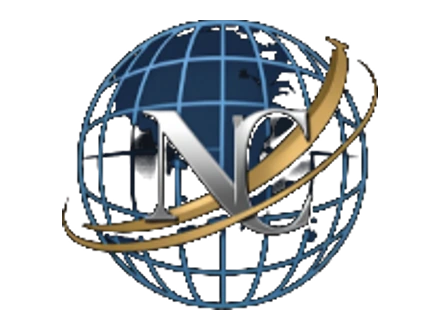
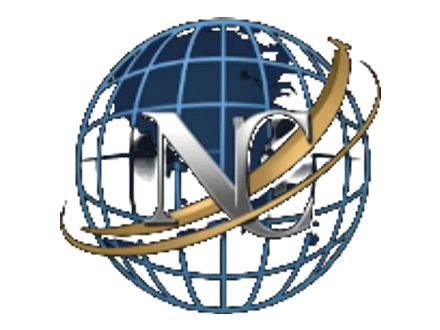
fix(assets): stop clipping the association seal
The association lockup has no detached wordmark - its seal contains the
entity name and the motto ribbon, and the artwork runs to y=311. The
previous crop stopped at y=247 (where the glyph components begin) and
sliced off the lower third of the seal.

Connected-component analysis shows the three dominant components span
x62..337 y111..308, so the whole bbox is the emblem. Management and
consultancy were already correct (their wordmarks are detached glyphs
below the mark).

- association emblem bbox corrected to 276x201
- consultancy emblem bbox nudged to include the top row (y93)
- fill raised to 0.90 so the marks sit closer to the frame edge without
  touching it (all margins now >= 16px)
- cache-bust bumped to v=8

diff --git a/nagasaribu-website-v2/index.html b/nagasaribu-website-v2/index.html
@@ -171,9 +171,9 @@ footer{background:#040a15;color:#a9bccf;padding:56px 0 30px;font-size:13.5px}foo
 <div class="logo-rule"></div>
 </div>
 <div class="logo-list">
-<a class="logo-item" href="management"><img src="assets/nagasaribu-management-icon-128.webp?v=7" width="46" height="46" alt="" aria-hidden="true"><span><b>MANAGEMENT</b><span>Contracting • Supply • Workforce</span></span></a>
-<a class="logo-item" href="consultancy"><img src="assets/nagasaribu-consultancy-icon-128.webp?v=7" width="46" height="46" alt="" aria-hidden="true"><span><b>CONSULTANCY</b><span>Marketing | Consulting | Growth</span></span></a>
-<a class="logo-item" href="association"><img src="assets/nagasaribu-association-icon-128.webp?v=7" width="46" height="46" alt="" aria-hidden="true"><span><b>ASSOCIATION</b><span>Networking • Partnership</span></span></a>
+<a class="logo-item" href="management"><img src="assets/nagasaribu-management-icon-128.webp?v=8" width="46" height="46" alt="" aria-hidden="true"><span><b>MANAGEMENT</b><span>Contracting • Supply • Workforce</span></span></a>
+<a class="logo-item" href="consultancy"><img src="assets/nagasaribu-consultancy-icon-128.webp?v=8" width="46" height="46" alt="" aria-hidden="true"><span><b>CONSULTANCY</b><span>Marketing | Consulting | Growth</span></span></a>
+<a class="logo-item" href="association"><img src="assets/nagasaribu-association-icon-128.webp?v=8" width="46" height="46" alt="" aria-hidden="true"><span><b>ASSOCIATION</b><span>Networking • Partnership</span></span></a>
 </div>
 </div>
 </div>
@@ -213,14 +213,14 @@ footer{background:#040a15;color:#a9bccf;padding:56px 0 30px;font-size:13.5px}foo
 <section id="businesses" aria-labelledby="businesses-title" style="background:#fff;border-top:1px solid var(--line);border-bottom:1px solid var(--line)"><div class="wrap">
 <div class="eyebrow">OUR BUSINESSES</div><h2 class="title serif reveal" id="businesses-title">Three Entities. One Ecosystem.</h2>
 <div class="grid3" style="margin-top:24px">
-<div class="card reveal"><div class="emblem"><img src="assets/nagasaribu-management-icon-440.webp?v=7" width="220" height="165" alt="NAGASARIBU MANAGEMENT emblem" loading="lazy" decoding="async"></div><div class="pill">CONTRACTING • SUPPLY • WORKFORCE</div><h3>NAGASARIBU MANAGEMENT</h3><p>Construction, supply, workforce & technical solutions.</p><div class="svc" style="grid-template-columns:1fr 1fr">
+<div class="card reveal"><div class="emblem"><img src="assets/nagasaribu-management-icon-440.webp?v=8" width="220" height="165" alt="NAGASARIBU MANAGEMENT emblem" loading="lazy" decoding="async"></div><div class="pill">CONTRACTING • SUPPLY • WORKFORCE</div><h3>NAGASARIBU MANAGEMENT</h3><p>Construction, supply, workforce & technical solutions.</p><div class="svc" style="grid-template-columns:1fr 1fr">
 <div><div class="num">01</div><b>Contracting</b><p>Building, renovation, civil works</p></div>
 <div><div class="num">02</div><b>Supply</b><p>Materials, hardware, equipment</p></div>
 <div><div class="num">03</div><b>Workforce</b><p>Manpower supply & management</p></div>
 <div><div class="num">04</div><b>Technical</b><p>Electrical, plumbing, HVAC</p></div>
 </div><p style="margin-top:12px;font-size:12.5px">📍 No. 2–105, Jalan Prima SG 3/2, Batu Caves, Selangor</p><a class="learnmore" href="management">More on Management →</a></div>
-<div class="card reveal"><div class="emblem"><img src="assets/nagasaribu-association-icon-440.webp?v=7" width="220" height="165" alt="NAGASARIBU ASSOCIATION emblem" loading="lazy" decoding="async"></div><div class="pill">LEADERSHIP • UNITY • INTEGRITY</div><h3>NAGASARIBU ASSOCIATION</h3><p>Business community — networking, connections & partnerships.</p><div class="memberbox"><p class="motto">BERUSAHA FISABILILLAH, BERJAYA BIZNILLAH</p><p class="price-soft">RM300 <small>/ year</small></p><a class="btn btn-gold" href="#contact" data-service="Membership">JOIN ASSOCIATION</a></div><a class="learnmore" href="association" style="margin-top:14px">More on Association →</a></div>
-<div class="card reveal"><div class="emblem"><img src="assets/nagasaribu-consultancy-icon-440.webp?v=7" width="220" height="165" alt="NAGASARIBU CONSULTANCY emblem" loading="lazy" decoding="async"></div><div class="pill">STRATEGY • SOLUTION • SUCCESS</div><h3>NAGASARIBU CONSULTANCY</h3><p>Business, marketing & digital consultancy for growth & expansion.</p><div class="svc" style="grid-template-columns:1fr 1fr">
+<div class="card reveal"><div class="emblem"><img src="assets/nagasaribu-association-icon-440.webp?v=8" width="220" height="165" alt="NAGASARIBU ASSOCIATION emblem" loading="lazy" decoding="async"></div><div class="pill">LEADERSHIP • UNITY • INTEGRITY</div><h3>NAGASARIBU ASSOCIATION</h3><p>Business community — networking, connections & partnerships.</p><div class="memberbox"><p class="motto">BERUSAHA FISABILILLAH, BERJAYA BIZNILLAH</p><p class="price-soft">RM300 <small>/ year</small></p><a class="btn btn-gold" href="#contact" data-service="Membership">JOIN ASSOCIATION</a></div><a class="learnmore" href="association" style="margin-top:14px">More on Association →</a></div>
+<div class="card reveal"><div class="emblem"><img src="assets/nagasaribu-consultancy-icon-440.webp?v=8" width="220" height="165" alt="NAGASARIBU CONSULTANCY emblem" loading="lazy" decoding="async"></div><div class="pill">STRATEGY • SOLUTION • SUCCESS</div><h3>NAGASARIBU CONSULTANCY</h3><p>Business, marketing & digital consultancy for growth & expansion.</p><div class="svc" style="grid-template-columns:1fr 1fr">
 <div><div class="num">01</div><b>Business</b><p>Strategy & optimisation</p></div>
 <div><div class="num">02</div><b>Marketing</b><p>Digital, branding, leads</p></div>
 <div><div class="num">03</div><b>Digital & AI</b><p>Websites, automation, AI</p></div>
@@ -245,7 +245,7 @@ footer{background:#040a15;color:#a9bccf;padding:56px 0 30px;font-size:13.5px}foo
 <div class="card"><div class="plogo soon">COMING<br>SOON</div><div class="pill">COMING SOON</div><h3>Workforce Ecosystem</h3><p>Digital ecosystem for workforce, business & service management.</p><a class="learnmore" href="#contact" data-service="Workforce">Register interest →</a></div>
 </div>
 <div style="margin-top:18px">
-<div class="member"><div style="display:flex;gap:12px;align-items:center;position:relative;z-index:2"><img class="mlogo" src="assets/nagasaribu-association-icon-128.webp?v=7" width="56" height="56" alt="NAGASARIBU ASSOCIATION logo" loading="lazy" decoding="async"><div><div style="font-size:11px;letter-spacing:2px;color:var(--gold2)">PREMIUM • SECURE • CONNECTED</div><b>NAGASARIBU ASSOCIATION</b></div></div><div style="margin-top:14px;position:relative;z-index:2"><span class="sample-chip">SAMPLE — FOR ILLUSTRATION ONLY</span><br>MEMBER: SAMPLE MEMBER • ID: SAMPLE-000 • VALID: ISSUED AFTER APPROVAL<br>“Together Towards Greater Opportunities”<br>BERUSAHA FISABILILLAH, BERJAYA BIZNILLAH<br><br><a class="btn btn-gold" href="#contact" data-service="Membership">JOIN — RM300 / YEAR</a> <a class="btn btn-ghost" style="margin-top:10px" href="member-card">VIEW SAMPLE CARD</a></div></div>
+<div class="member"><div style="display:flex;gap:12px;align-items:center;position:relative;z-index:2"><img class="mlogo" src="assets/nagasaribu-association-icon-128.webp?v=8" width="56" height="56" alt="NAGASARIBU ASSOCIATION logo" loading="lazy" decoding="async"><div><div style="font-size:11px;letter-spacing:2px;color:var(--gold2)">PREMIUM • SECURE • CONNECTED</div><b>NAGASARIBU ASSOCIATION</b></div></div><div style="margin-top:14px;position:relative;z-index:2"><span class="sample-chip">SAMPLE — FOR ILLUSTRATION ONLY</span><br>MEMBER: SAMPLE MEMBER • ID: SAMPLE-000 • VALID: ISSUED AFTER APPROVAL<br>“Together Towards Greater Opportunities”<br>BERUSAHA FISABILILLAH, BERJAYA BIZNILLAH<br><br><a class="btn btn-gold" href="#contact" data-service="Membership">JOIN — RM300 / YEAR</a> <a class="btn btn-ghost" style="margin-top:10px" href="member-card">VIEW SAMPLE CARD</a></div></div>
 </div></div></section>
 
 <section id="process" aria-labelledby="process-title" style="background:#fff;border-top:1px solid var(--line)"><div class="wrap reveal">

diff --git a/nagasaribu-website-v2/consultancy.html b/nagasaribu-website-v2/consultancy.html
@@ -57,7 +57,7 @@ footer{background:#040a15;color:#a9bccf;padding:44px 0;font-size:13.5px}footer a
 <div class="card"><div class="num">06</div><h3>Platforms &amp; International</h3><p>Digital platforms and cross-border connectivity for expansion.</p></div>
 </div>
 <div class="disclaimer" role="note"><b>Important:</b> NAGASARIBU is not a bank and does not claim any direct banking relationship. Accounts are provided via WorldFirst; availability is subject to WorldFirst onboarding and approval. See the <a href="/#finance" style="color:#0047b3;font-weight:700">Finance section</a> for details.</div>
-<div class="card logo-card" style="margin-top:18px"><img src="assets/nagasaribu-consultancy-640.webp?v=7" width="400" height="300" alt="NAGASARIBU CONSULTANCY logo" loading="lazy" decoding="async"><p style="margin-top:12px"><a class="btn btn-gold" href="/?service=Business%20Consultancy#contact">BOOK CONSULTATION — RM100/SESSION</a></p><p style="margin-top:10px">Part of the <a href="./" style="color:#0047b3;font-weight:700">NAGASARIBU ecosystem</a>.</p></div>
+<div class="card logo-card" style="margin-top:18px"><img src="assets/nagasaribu-consultancy-640.webp?v=8" width="400" height="300" alt="NAGASARIBU CONSULTANCY logo" loading="lazy" decoding="async"><p style="margin-top:12px"><a class="btn btn-gold" href="/?service=Business%20Consultancy#contact">BOOK CONSULTATION — RM100/SESSION</a></p><p style="margin-top:10px">Part of the <a href="./" style="color:#0047b3;font-weight:700">NAGASARIBU ecosystem</a>.</p></div>
 </div></section>
 </main>
 <footer><div class="wrap"><a href="./">← Back to nagasaribu.online</a> &nbsp;•&nbsp; <a href="mailto:sales@nagasaribu.online">sales@nagasaribu.online</a><br>© 2026 NAGASARIBU • BERUSAHA FISABILILLAH, BERJAYA BIZNILLAH</div></footer>

diff --git a/nagasaribu-website-v2/association.html b/nagasaribu-website-v2/association.html
@@ -52,7 +52,7 @@ footer{background:#040a15;color:#a9bccf;padding:44px 0;font-size:13.5px}footer a
 <div class="card"><h3>Partnerships</h3><p>Build connections and partnerships within one ecosystem of three entities.</p></div>
 <div class="card"><div class="price">RM300 <small style="font-size:14px;color:var(--mut)">/ year</small></div><p style="margin-top:8px"><a class="btn btn-gold" href="/?service=Membership#contact">JOIN ASSOCIATION</a></p></div>
 </div>
-<div class="card logo-card" style="margin-top:18px"><img src="assets/nagasaribu-associations-640.webp?v=7" width="400" height="300" alt="NAGASARIBU ASSOCIATION logo" loading="lazy" decoding="async"><p style="margin-top:12px"><a class="btn btn-blue" href="member-card">VIEW SAMPLE VIRTUAL CARD</a></p><p style="margin-top:10px">Part of the <a href="./" style="color:#0047b3;font-weight:700">NAGASARIBU ecosystem</a>.</p></div>
+<div class="card logo-card" style="margin-top:18px"><img src="assets/nagasaribu-associations-640.webp?v=8" width="400" height="300" alt="NAGASARIBU ASSOCIATION logo" loading="lazy" decoding="async"><p style="margin-top:12px"><a class="btn btn-blue" href="member-card">VIEW SAMPLE VIRTUAL CARD</a></p><p style="margin-top:10px">Part of the <a href="./" style="color:#0047b3;font-weight:700">NAGASARIBU ecosystem</a>.</p></div>
 </div></section>
 </main>
 <footer><div class="wrap"><a href="./">← Back to nagasaribu.online</a> &nbsp;•&nbsp; <a href="mailto:sales@nagasaribu.online">sales@nagasaribu.online</a><br>© 2026 NAGASARIBU • BERUSAHA FISABILILLAH, BERJAYA BIZNILLAH</div></footer>

diff --git a/nagasaribu-website-v2/management.html b/nagasaribu-website-v2/management.html
@@ -53,7 +53,7 @@ footer{background:#040a15;color:#a9bccf;padding:44px 0;font-size:13.5px}footer a
 <div class="card"><div class="num">03</div><h3>Workforce</h3><p>Manpower supply &amp; management across Malaysia and Indonesia.</p><a class="btn btn-blue" style="margin-top:14px" href="/?service=Workforce#contact">Enquire — Workforce</a></div>
 <div class="card"><div class="num">04</div><h3>Technical</h3><p>Electrical, plumbing and HVAC works and support.</p><a class="btn btn-blue" style="margin-top:14px" href="/?service=Contracting#contact">Enquire — Technical</a></div>
 </div>
-<div class="card logo-card" style="margin-top:18px"><img src="assets/nagasaribu-management-640.webp?v=7" width="400" height="300" alt="NAGASARIBU MANAGEMENT logo" loading="lazy" decoding="async"><p style="margin-top:10px">Part of the <a href="./" style="color:#0047b3;font-weight:700">NAGASARIBU ecosystem</a> alongside Consultancy and Association.</p></div>
+<div class="card logo-card" style="margin-top:18px"><img src="assets/nagasaribu-management-640.webp?v=8" width="400" height="300" alt="NAGASARIBU MANAGEMENT logo" loading="lazy" decoding="async"><p style="margin-top:10px">Part of the <a href="./" style="color:#0047b3;font-weight:700">NAGASARIBU ecosystem</a> alongside Consultancy and Association.</p></div>
 </div></section>
 </main>
 <footer><div class="wrap"><a href="./">← Back to nagasaribu.online</a> &nbsp;•&nbsp; <a href="mailto:sales@nagasaribu.online">sales@nagasaribu.online</a><br>© 2026 NAGASARIBU • BERUSAHA FISABILILLAH, BERJAYA BIZNILLAH</div></footer>

diff --git a/nagasaribu-website-v2/member-card.html b/nagasaribu-website-v2/member-card.html
@@ -66,7 +66,7 @@ h1{font-family:"Playfair Display",serif;font-size:clamp(24px,4vw,36px);margin:8p
 <div class="scene" id="scene" title="Tap to flip">
 <div class="card3d">
 <div class="face front">
-<div class="top"><img src="assets/nagasaribu-association-icon-128.webp?v=7" width="58" height="58" alt="NAGASARIBU ASSOCIATION logo"><div><small>PREMIUM • SECURE • CONNECTED</small><b>NAGASARIBU ASSOCIATION</b></div></div>
+<div class="top"><img src="assets/nagasaribu-association-icon-128.webp?v=8" width="58" height="58" alt="NAGASARIBU ASSOCIATION logo"><div><small>PREMIUM • SECURE • CONNECTED</small><b>NAGASARIBU ASSOCIATION</b></div></div>
 <div class="mid">MEMBER: <b>SAMPLE MEMBER</b> • ID: <b>SAMPLE-000</b> • VALID: <b>AFTER APPROVAL</b><br><span class="tagline">“Together Towards Greater Opportunities”</span><br><span class="arab">BERUSAHA FISABILILLAH, BERJAYA BIZNILLAH</span></div>
 <div><a class="btn" href="/?service=Membership#contact">JOIN — RM300 / YEAR</a></div>
 </div>
